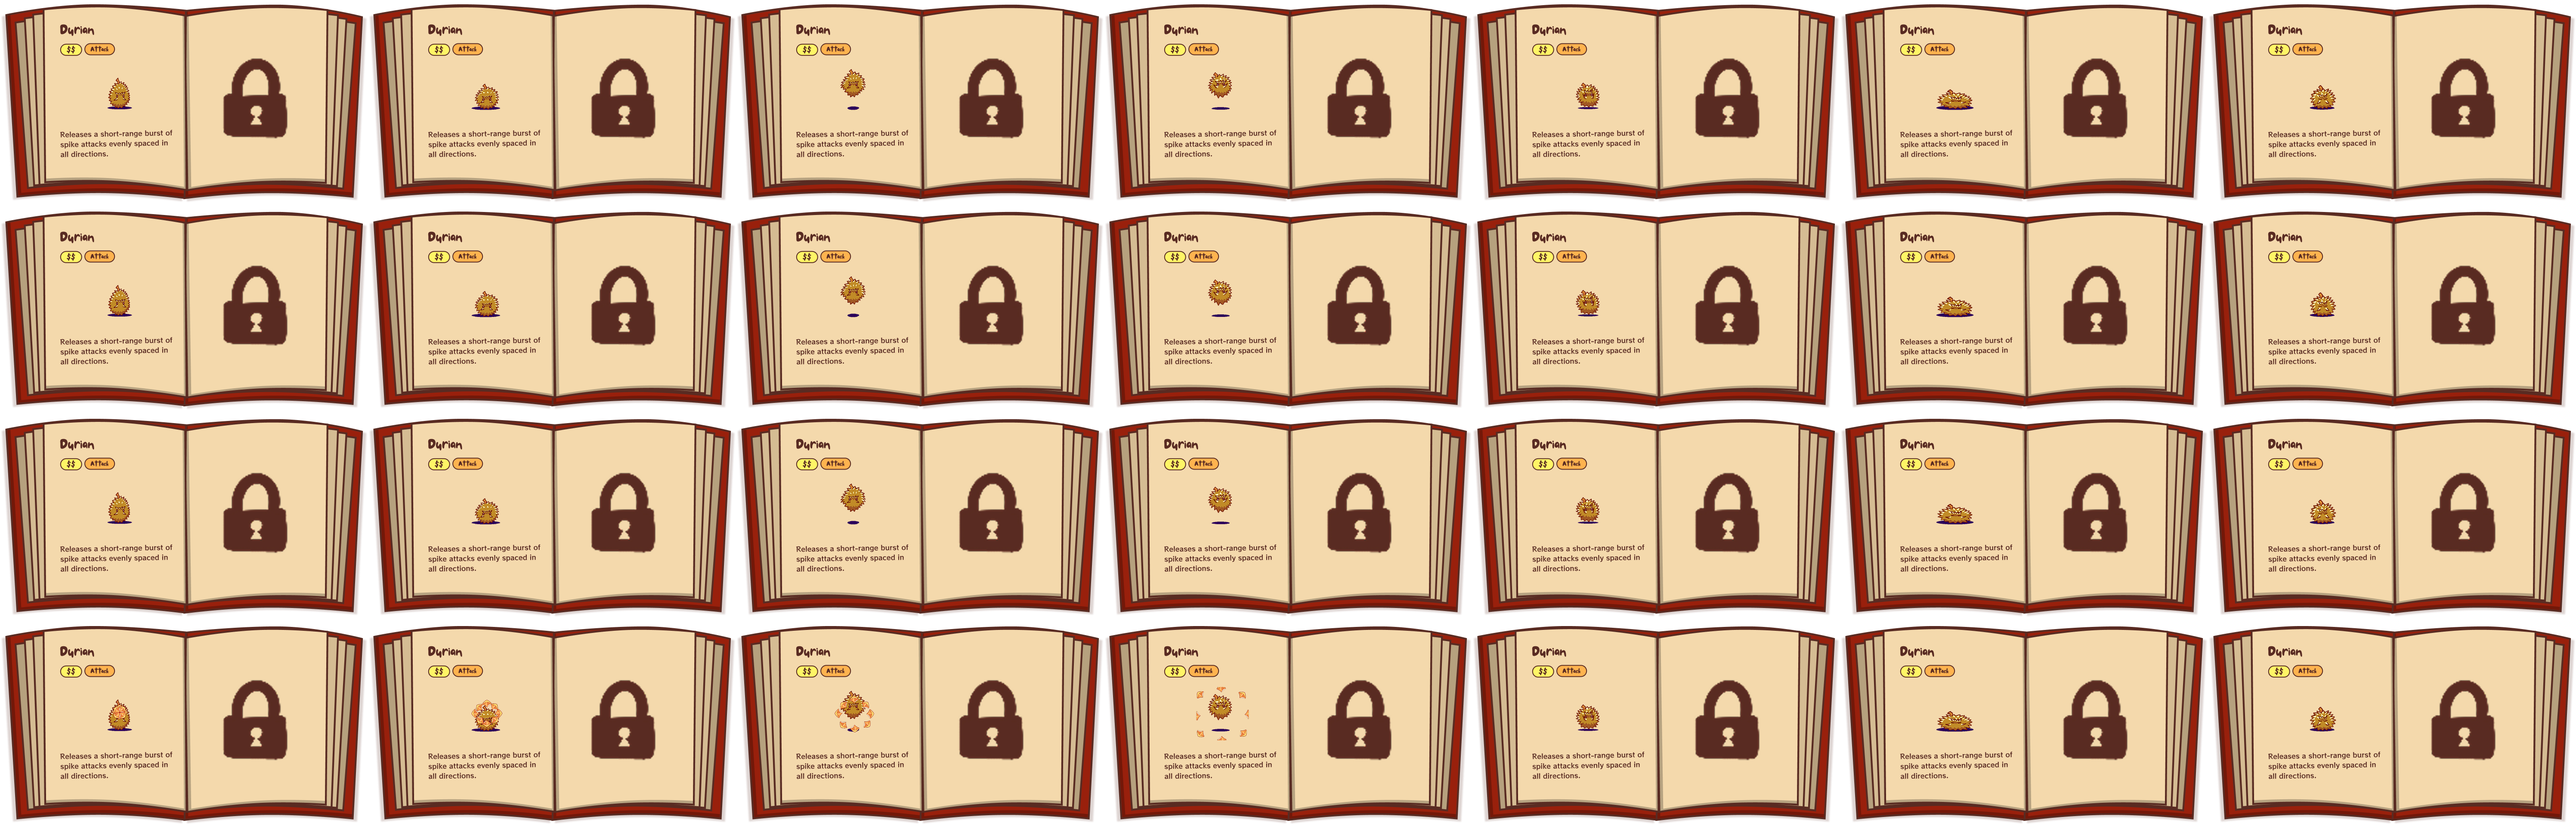
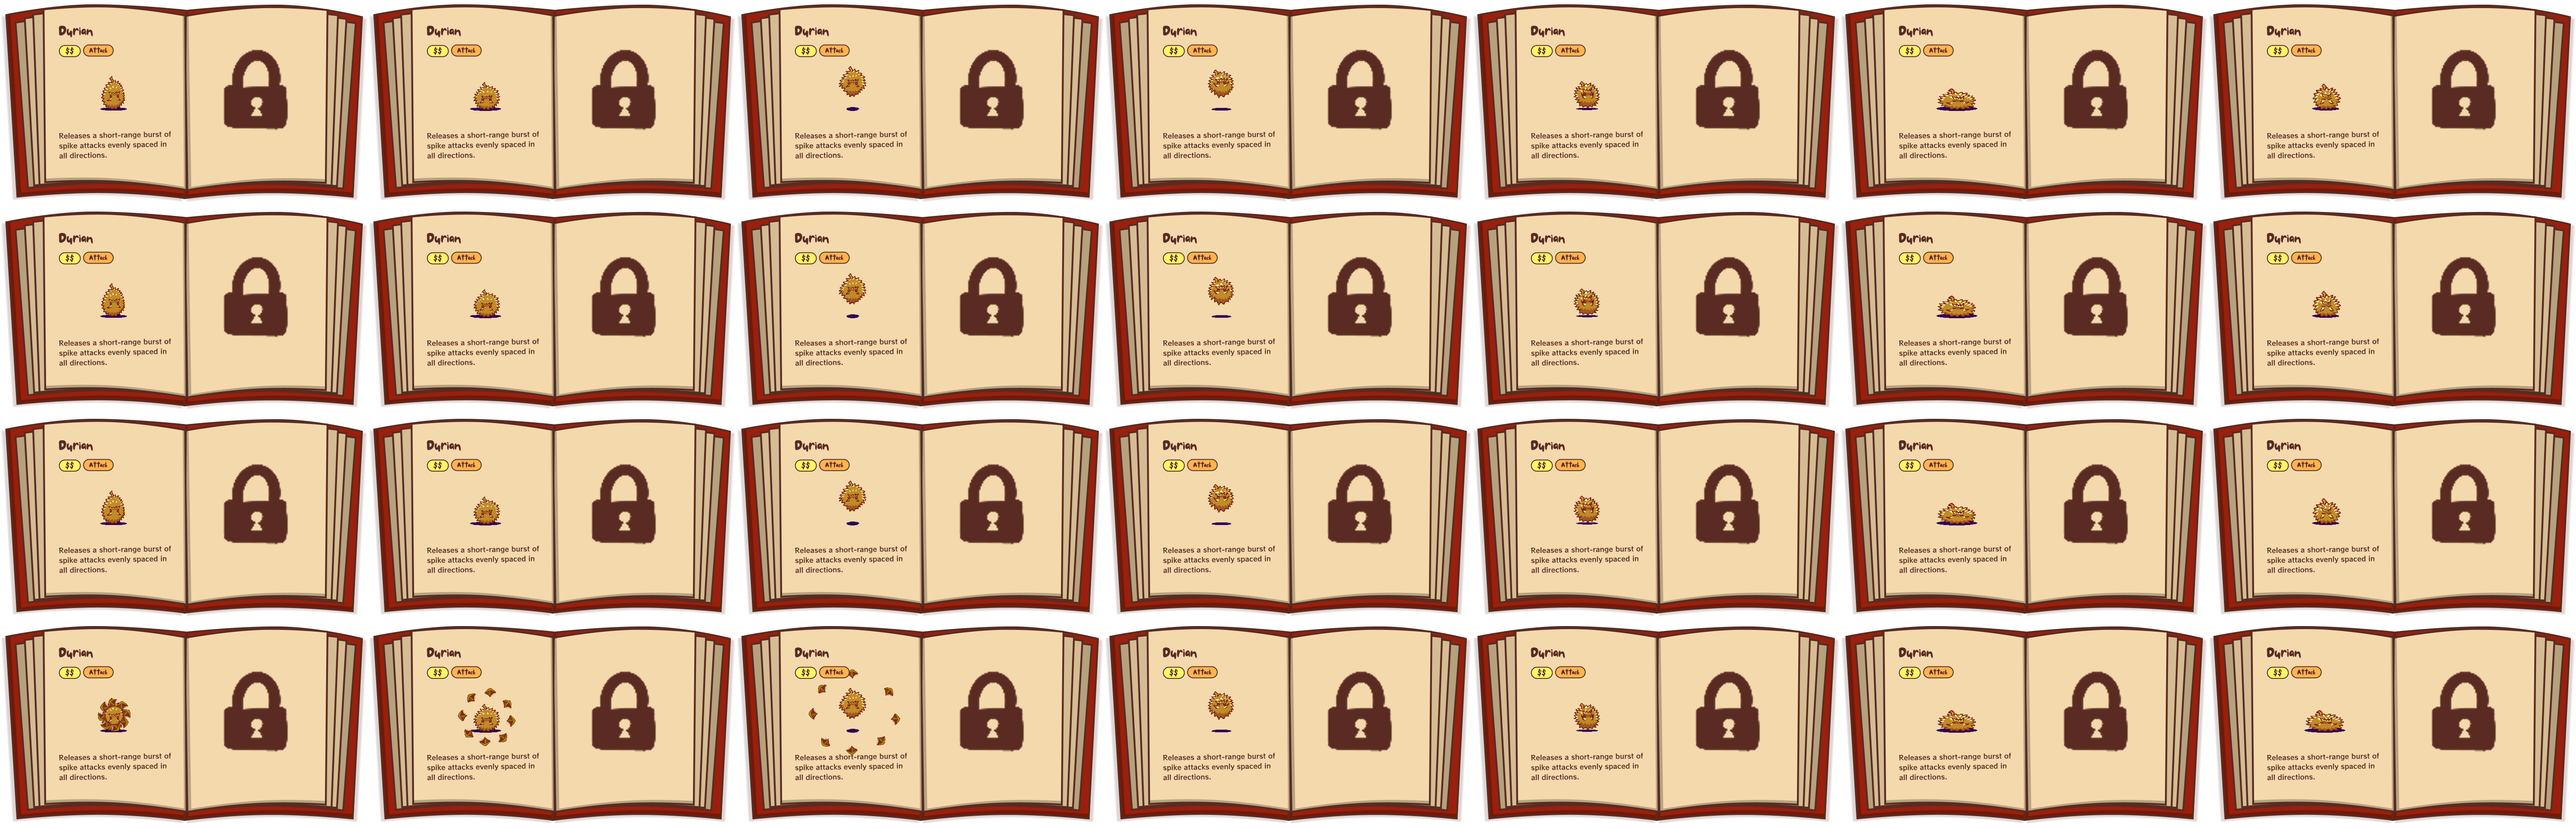
Handbook and Lose screens

diff --git a/core/src/main/java/edu/cornell/cis3152/team8/CompanionHandbookScene.java b/core/src/main/java/edu/cornell/cis3152/team8/CompanionHandbookScene.java
@@ -182,7 +182,7 @@ public class CompanionHandbookScene implements Screen {
         stage.getActors().get(4).addListener(new ChangeListener() {
             @Override
             public void changed(ChangeEvent event, Actor actor) {
-                animationSpeed = 0.25f;
+                animationSpeed = 0.1f;
                 currTab = 0;
                 currPage = 0;
             }
@@ -243,9 +243,9 @@ public class CompanionHandbookScene implements Screen {
 
             if (currTab == 0) {
                 if (currPage == 2) {
-                    animationSpeed = 0.5f;
+                    animationSpeed = 0.2f;
                 } else {
-                    animationSpeed = 0.25f;
+                    animationSpeed = 0.1f;
                 }
             }
 

diff --git a/core/src/main/java/edu/cornell/cis3152/team8/LosePopUp.java b/core/src/main/java/edu/cornell/cis3152/team8/LosePopUp.java
@@ -12,7 +12,7 @@ public class LosePopUp extends PopUp {
     public LosePopUp(GDXRoot game, GameScene gameScene) {
         super(game, gameScene, game.directory.getEntry("ratLose.animation", SpriteSheet.class));
         if (gameScene.getBossNames().contains("chef")) {
-            background = game.directory.getEntry("ratLose.animation", SpriteSheet.class);
+            background = game.directory.getEntry("chefLose.animation", SpriteSheet.class);
         } else if (gameScene.getBossNames().contains("chopsticks")) {
             background = game.directory.getEntry("chopsticksLose.animation", SpriteSheet.class);
         }

diff --git a/core/src/main/java/edu/cornell/cis3152/team8/HandbookPopUp.java b/core/src/main/java/edu/cornell/cis3152/team8/HandbookPopUp.java
@@ -153,7 +153,7 @@ public class HandbookPopUp {
             setLockPage();
             buttons = getButtons();
             switch (tab) {
-                case "Companions" -> animationSpeed = 0.25f;
+                case "Companions" -> animationSpeed = 0.1f;
                 case "Minions" -> animationSpeed = 0.15f;
                 case "Bosses" -> animationSpeed = 0.1f;
             }

diff --git a/core/src/main/java/edu/cornell/cis3152/team8/GameScene.java b/core/src/main/java/edu/cornell/cis3152/team8/GameScene.java
@@ -697,6 +697,7 @@ public class GameScene implements Screen {
                 if (type.equals("player")) {
                     if (((Companion) o).shouldRemove()) {
                         lose.draw();
+                        break;
                     }
                 }
             }
